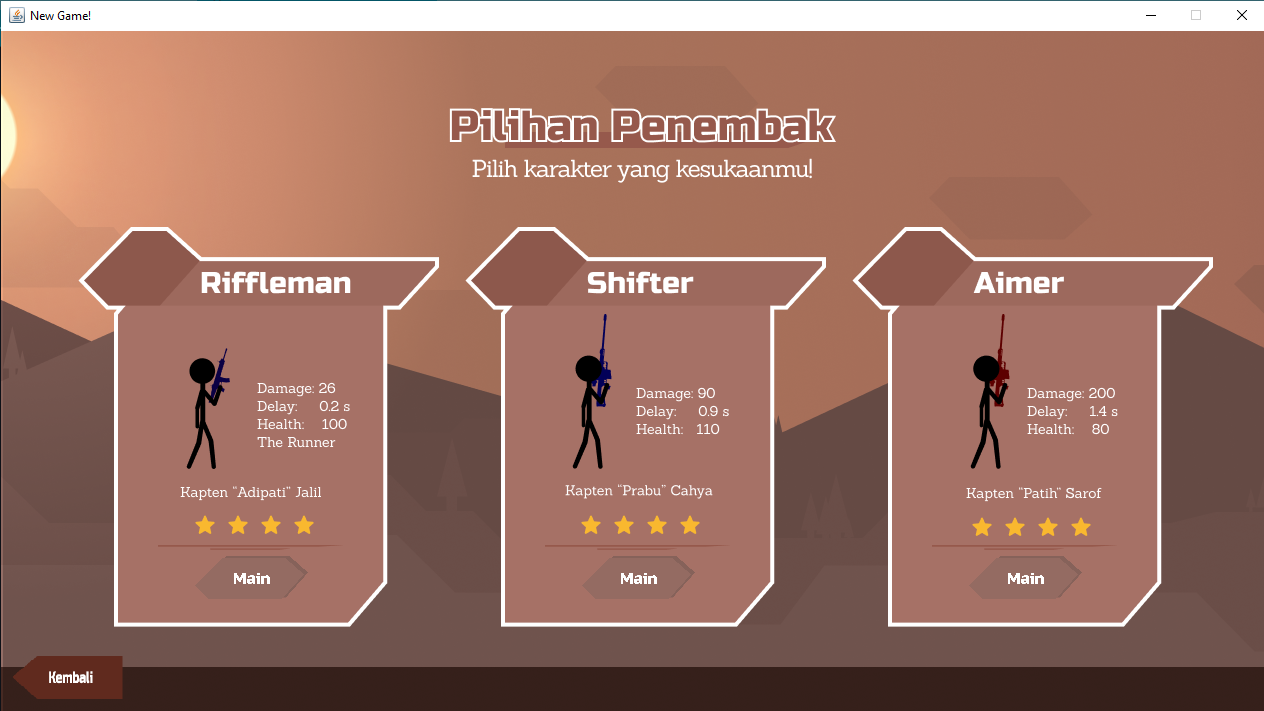
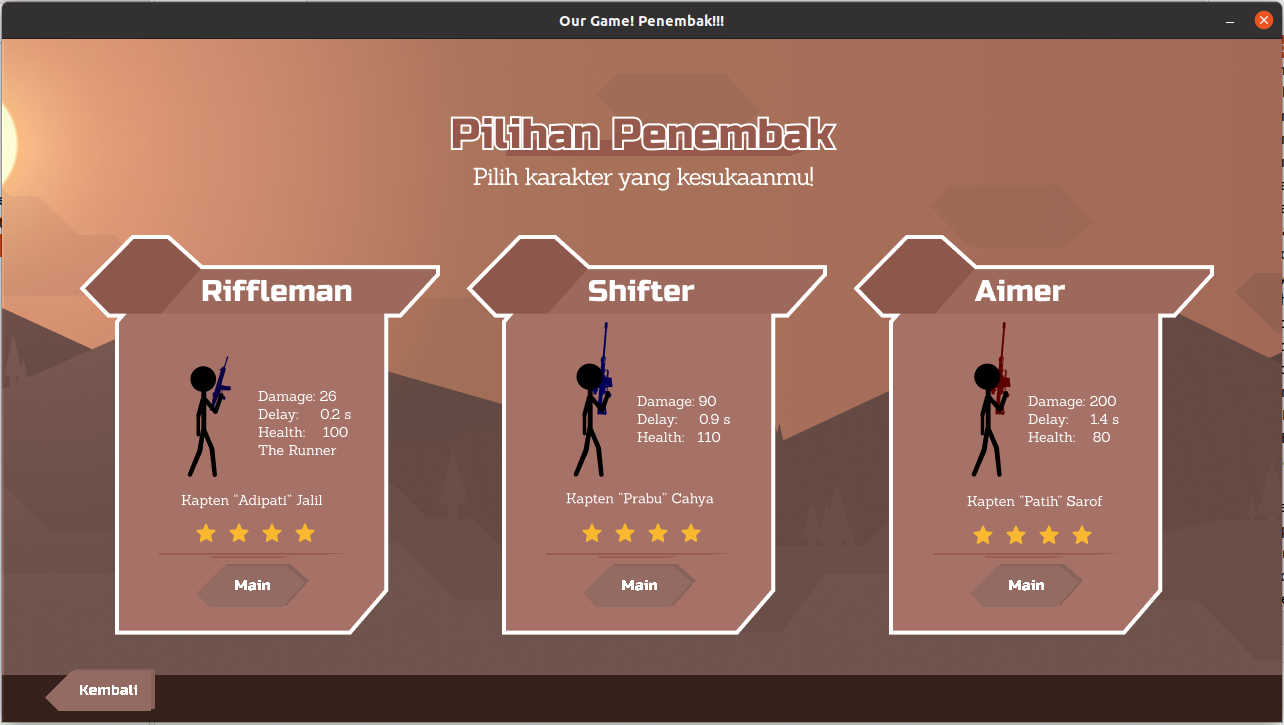
update ss

diff --git a/FinalProject/Penembak/src/id/ac/its/trexucul/main/Launcher.java b/FinalProject/Penembak/src/id/ac/its/trexucul/main/Launcher.java
@@ -3,7 +3,7 @@ package id.ac.its.trexucul.main;
 public class Launcher {
 		
 	public static void main(String[] args){
-		Window game = new Window("New Game!");
+		Window game = new Window("Our Game! Penembak!!!");
 		game.start();
 	}
 }
